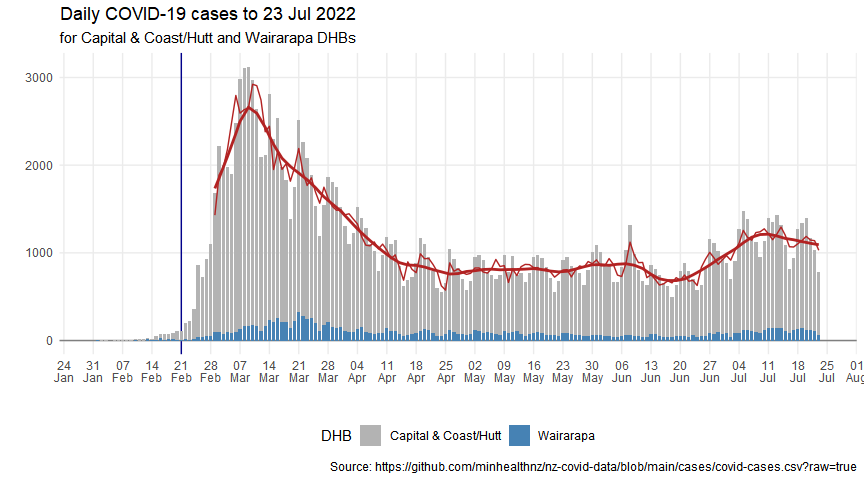
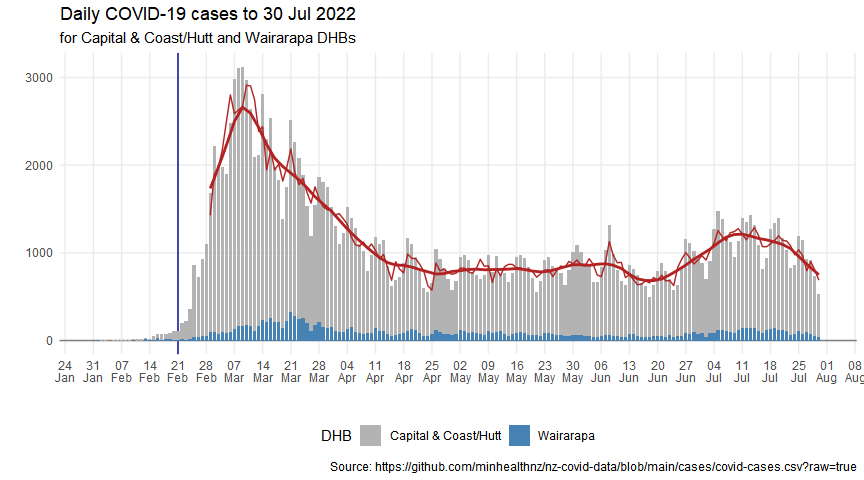
Update for 20220801

diff --git a/covid-post-peak-analysis.md b/covid-post-peak-analysis.md
@@ -29,7 +29,7 @@ cases_df <- read_csv(case_data_url) %>%
   clean_names()
 ```
 
-    ## Rows: 1563510 Columns: 7
+    ## Rows: 1616341 Columns: 7
 
     ## -- Column specification --------------------------------------------------------
     ## Delimiter: ","
@@ -48,7 +48,7 @@ cases_by_dhb_df <- cases_df %>%
   count(report_date, dhb, case_status)
 ```
 
-## Wellington figures up to 23 Jul 2022
+## Wellington figures up to 30 Jul 2022
 
 Including Hutt and Wairarapa as well as CCDHB.
 
